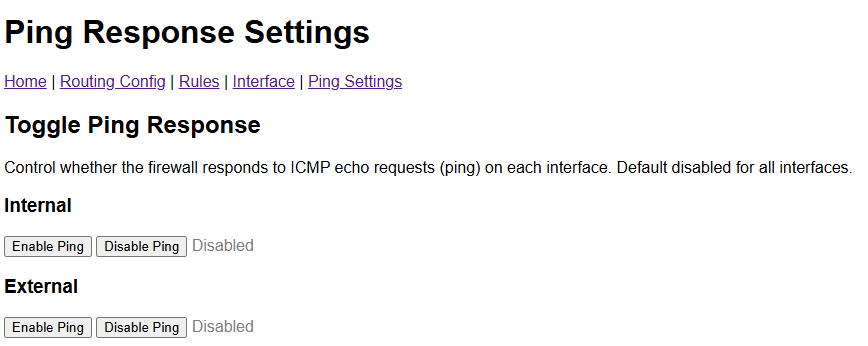
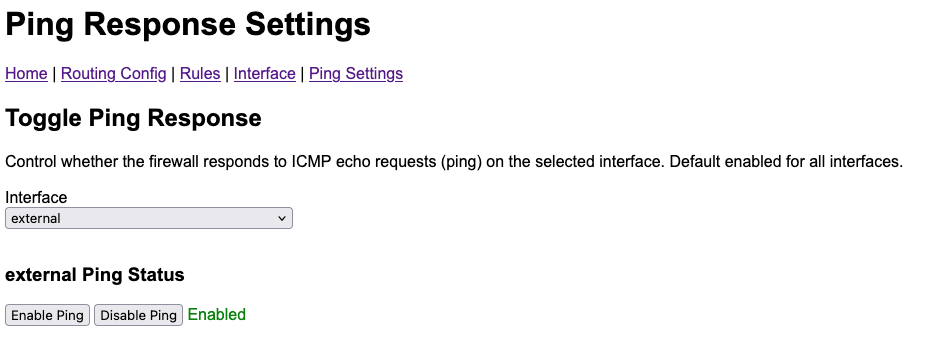
firewall docs: Small fixes

diff --git a/content/docs/examples/firewall/_index.md b/content/docs/examples/firewall/_index.md
@@ -103,14 +103,14 @@ transmit to.
 
 ### ICMP Queues
 
-ICMP queues are one-way queues between the [filters](#filters),
-[routers](#routing-components), and the [ICMP module](#icmp-module), used to
-request transmission of an ICMP packet. On behalf of routers, the ICMP module
-generates `destination unreachable` and `timeout` packets. On behalf of
-filters, it generates `reject` packets when a filter is configured to reject
-dropped traffic. The ICMP module also handles ping responses for each of the
-firewall's interfaces, with per-interface ping responses being configurable via
-the [webserver](#webserver).
+ICMP queues are one-way queues between the [ICMP module](#icmp-module) and the
+[filters](#filters) and [routers](#routing-components). They are used to request
+transmission of ICMP packets. Routers can request the transmission of
+`destination unreachable` and `timeout` packets, while filters can request the
+transmission of`reject` packets. The ICMP module is also responsible for
+generating ping responses for each of the firewall's interfaces, with
+per-interface ping responsiveness being configurable via the
+[webserver](#webserver).
 
 ### Other Shared Memory Structures
 
@@ -258,16 +258,16 @@ specific match is applied in the case of multiple matches):
 
 ```c
 typedef enum {
-    /* no rule exists */
-    FILTER_ACT_NONE,
     /* allow traffic */
-	FILTER_ACT_ALLOW,
+    FILTER_ACT_ALLOW = 1,
     /* drop traffic */
-	FILTER_ACT_DROP,
+    FILTER_ACT_DROP = 2,
+    /* reject traffic (drop traffic and send back icmp unreachable) */
+    FILTER_ACT_REJECT = 3,
     /* allow traffic, and additionally any return traffic */
-    FILTER_ACT_CONNECT,
+    FILTER_ACT_CONNECT = 4,
     /* traffic is return traffic from a connect rule */
-    FILTER_ACT_ESTABLISHED
+    FILTER_ACT_ESTABLISHED = 5,
 } fw_action_t;
 
 typedef struct fw_rule {
@@ -294,17 +294,20 @@ typedef struct fw_rule {
 } fw_rule_t;
 ```
 
-The `allow` and `drop` are self explanatory, while the `connect` and
-`established` actions are related. If a packet matches with a `connect` action,
-this implies the filter should allow the packet through the firewall, _as well
-as_ any return traffic. This is implemented using a pair of shared memory
-regions between matching protocol number filters denoted _instance_ regions.
-Upon matching with a `connect` rule, a filter creates a connection instance for
-the packet in its instance region. Before filters check their rule table, they
-first check their neighbour's instance table to determine if this is permitted
-return traffic allowed by their neighbour. If an instance is found, the
-`established` action is returned and the traffic is permitted. Upon the deletion
-of a `connect` rule, all instances corresponding to that rule are removed.
+The `allow` and `drop` actions are self explanatory, and the `reject` action is
+an extension of the `drop` action - matching traffic is dropped, *and* an ICMP
+`reject` packet is sent to the original sender via the ICMP module. The
+`connect` and `established` actions are related. If a packet matches with a
+`connect` action, this implies the filter should allow the packet through the
+firewall, _as well as_ any return traffic. This is implemented using a pair of
+shared memory regions between matching protocol number filters denoted
+_instance_ regions. Upon matching with a `connect` rule, a filter creates a
+connection instance for the packet in its instance region. Before filters check
+their rule table, they first check their neighbour's instance table to determine
+if this is permitted return traffic allowed by their neighbour. If an instance
+is found, the `established` action is returned and the traffic is permitted.
+Upon the deletion of a `connect` rule, all instances corresponding to that rule
+are removed.
 
 The following diagram shows the flow of packets through the filters, as well as
 the shared instances regions between matching filters.
@@ -351,26 +354,28 @@ src="/internal_router.svg" alt="Internal router" width="500" />
 ### ICMP module
 
 The ICMP module is responsible for generating ICMP traffic on behalf of all
-components in the firewall that require it. Unlike most other components,
-there is only one ICMP module, which is able to transmit out both NICs.
+components in the firewall. There is only one ICMP module in the system which is
+able to transmit out all interfaces.
 
-Upon finding that a packet's TTL has reached zero, or that a destination IP
-address cannot be reached (either because no route exists or because ARP
-resolution fails), the router requests that the ICMP module sends a `timeout`
-or `destination unreachable` packet back to the original sender.
+The routing component will request an ICMP packet be transmitted upon finding
+that a packet's TTL has reached zero, or a packet's destination IP address
+cannot be reached. In this case, the ICMP module will send an ICMP `timeout` or
+`destination unreachable` packet back to the original sender.
 
-Some filters (e.g. UDP and ICMP) support a `reject` action. When traffic
-matches a reject rule, the filter drops the packet but also requests that the
-ICMP module send a `destination unreachable` (port unreachable) packet back to
-the original sender, informing them that the port is unavailable.
+The ICMP module is also responsible for generating responses to pings received
+on each of the firewall's interfaces. If the router receives an incoming ICMP
+echo request destined for the firewall, it will forward the details to the ICMP
+module depending on whether it is configured to respond. Responsiveness to pings
+on a given interface is configurable at run-time via the
+[webserver](#webserver).
 
-The ICMP module also handles ping responses for each of the firewall's
-interfaces. It is the router's responsibility to identify when an incoming ICMP
-echo request is destined for one of the firewall's own IP addresses and forward
-it to the ICMP module. Whether the firewall responds to pings on a given
-interface is configurable at run-time via the [webserver](#webserver).
+Some filters (e.g. UDP and ICMP) support a `reject` filtering action. When
+traffic matches with a reject rule, the traffic is dropped *and* the filter
+requests that the ICMP module send a `destination unreachable` (port
+unreachable) packet back to the original sender, informing them that the port is
+unavailable.
 
-The diagram below demonstrates the current connections of the module.
+The diagram below demonstrates the connections of the ICMP module.
 
 <img style="display: block; margin-left: auto; margin-right: auto"
 src="/icmp_module.svg" alt="ICMP module" width="500" />
@@ -410,7 +415,8 @@ which allows them to efficiently be displayed without disrupting the flow of
 traffic through the system. A PPC is only required for modification.
 
 The following images show the GUI pages for viewing and updating routing table
-routes, the ICMP filter's rules, and the firewall's ICMP ping setting:
+routes, the ICMP filter's rules, and the firewall's ping responsiveness
+settings:
 
 <img style="display: block; margin-left: auto; margin-right: auto"
 src="/firewall_webgui_router.png" alt="Webserver GUI routing table page" width="500" />

diff --git a/content/docs/examples/firewall/testing.md b/content/docs/examples/firewall/testing.md
@@ -94,19 +94,6 @@ ip netns exec ext ping ${INT_HOST_IP}
 ip netns exec int ping ${EXT_HOST_IP}
 ```
 
-#### ICMP to firewall interfaces
-
-Note that the firewall will only respond to pings on an interface if it has been explicitly enabled to do so. 
-If you wish to test for ping responsiveness, ensure it is enabled.
-
-```sh
-# ICMP: ext --> Firewall ext
-ip netns exec ext ping ${FW_EXT_IP}
-
-# ICMP: int --> Firewall int
-ip netns exec int ping ${FW_INT_IP}
-```
-
 #### TCP
 
 To test the forwarding of UDP and TCP traffic, we utilise the `netcat` program.
@@ -124,7 +111,8 @@ ip netns exec ext nc -l ${TEST_PORT}
 ip netns exec int nc ${EXT_HOST_IP} ${TEST_PORT}
 ```
 
-Once the connection is established, input entered into one terminal should be received by the other host, and be outputted on the other terminal.
+Once the connection is established, input entered into one terminal should be
+received by the other host, and be outputted on the other terminal.
 
 #### UDP
 
@@ -141,48 +129,61 @@ ip netns exec ext nc -ul ${TEST_PORT}
 ip netns exec int nc -u ${EXT_HOST_IP} ${TEST_PORT}
 ```
 
-
 ### Testing the ICMP module
 
-## ICMP reject rules
+#### Pinging firewall interfaces
 
-If a filter receives traffic matching with a reject rule, the filter requests that the
-ICMP module sends an ICMP unreachable response back to the sender. 
-Note that currently only the UDP and ICMP filter support such rules.
+Note that the firewall will only respond to pings on an interface if it has been
+explicitly enabled to do so. If you wish to test for ping responsiveness, ensure
+it is enabled.
 
-To test this, configure a matching `reject` rule, then send matching traffic
-through the firewall. See the forwarding sections for [ICMP](#icmp) and
-[UDP](#udp) for the required commands.
+```sh
+# ICMP: ext --> Firewall ext
+ip netns exec ext ping ${FW_EXT_IP}
 
+# ICMP: int --> Firewall int
+ip netns exec int ping ${FW_INT_IP}
+```
 
-Rejected ICMP ping traffic should result in `Destination Host Unreachable`
-responses from the firewall. Rejected UDP traffic should result in an ICMP
-`destination unreachable` response from the firewall (visible in packet
-captures and firewall logs).
+#### ICMP reject rules
 
-`reject` is not supported for TCP. Attempting to create a TCP rule with action
-`reject` in the webserver should return an error.
+If a filter receives traffic matching with a reject rule, the filter requests
+that the ICMP module sends an ICMP unreachable response back to the sender. Note
+that currently only the UDP and ICMP filter support reject rules as TCP
+implements this mechanism within the protocol.
 
+To test this, create filter rule with the action `reject`, then send traffic
+matching this rule through the firewall. See the forwarding sections for
+[ICMP](#icmp) and [UDP](#udp) for the required commands.
+
+Rejected ICMP ping traffic should result in `Destination [Host|Net] Unreachable`
+responses from the firewall (depending on whether the destination host lies
+within a reachable network). Rejected UDP traffic should result in an ICMP
+`destination unreachable` response from the firewall (visible in packet captures
+and firewall logs).
+
+The `reject` action is not supported by the TCP filters. Attempting to create a
+TCP rule with action `reject` in the webserver returns an `Unsupported action`
+error.
 
 #### ICMP destination unreachable
 
-Currently the ICMP module is [only
-capable](https://github.com/au-ts/lionsos/issues/194) of sending `destination
-unreachable` packets, which are sent to the source IP address of packets when
-the destination IP address of a packet can't be resolved. To test this, you can
-attempt to ping an IP address that doesn't exist:
+The ICMP module will send `destination unreachable` packets to the original
+sender of a packet if its destination IP address can't be reached. To test this,
+you can attempt to ping an IP address that doesn't exist:
 
 ```sh
 ip netns exec ext ping ${INT_BAD_HOST_IP}
 ip netns exec int ping ${EXT_BAD_HOST_IP}
 ```
 
-Initially this will cause the ARP requester to send out an ARP request for the
-bad IP. The requester will retry a total of 5 times (once per second), until it
-eventually decides the IP is unreachable. It will then notify the router about
-this, which will trigger the router to send a request to the ICMP module to send
-an ICMP 'destination unreachable' packet back to the original sender. This
-should result in your ping command outputting the following:
+Since these addresses lie within a subnet that *is* reachable, this will
+initially cause the ARP requester to send out an ARP request for the bad IP. The
+requester will retry a total of 5 times (once per second), until it eventually
+decides the IP is unreachable. It will then notify the router, which will
+trigger the router to send a request to the ICMP module to send an ICMP
+'destination unreachable' packet back to the original sender. This should result
+in your ping command outputting the following:
 
 ```sh
 root@db756615e5c4:~# ip netns exec ext ping ${INT_BAD_HOST_IP}
@@ -194,10 +195,13 @@ From 172.16.2.1 icmp_seq=4 Destination Host Unreachable
 From 172.16.2.1 icmp_seq=5 Destination Host Unreachable
 ```
 
+If the bad destination IP address instead belongs to an unreachable subnet, a
+`destination net unreachable` packet will be sent immediately.
+
 #### ICMP timeout
 
-ICMP timeout behaviour can be tested by sending a ping request with a very low TTL, 
-so the packet expires st the firewall hop.
+ICMP time to live timeout behaviour can be tested by sending a ping echo request
+with a very low TTL, so the packet expires at the firewall hop.
 
 Run:
 